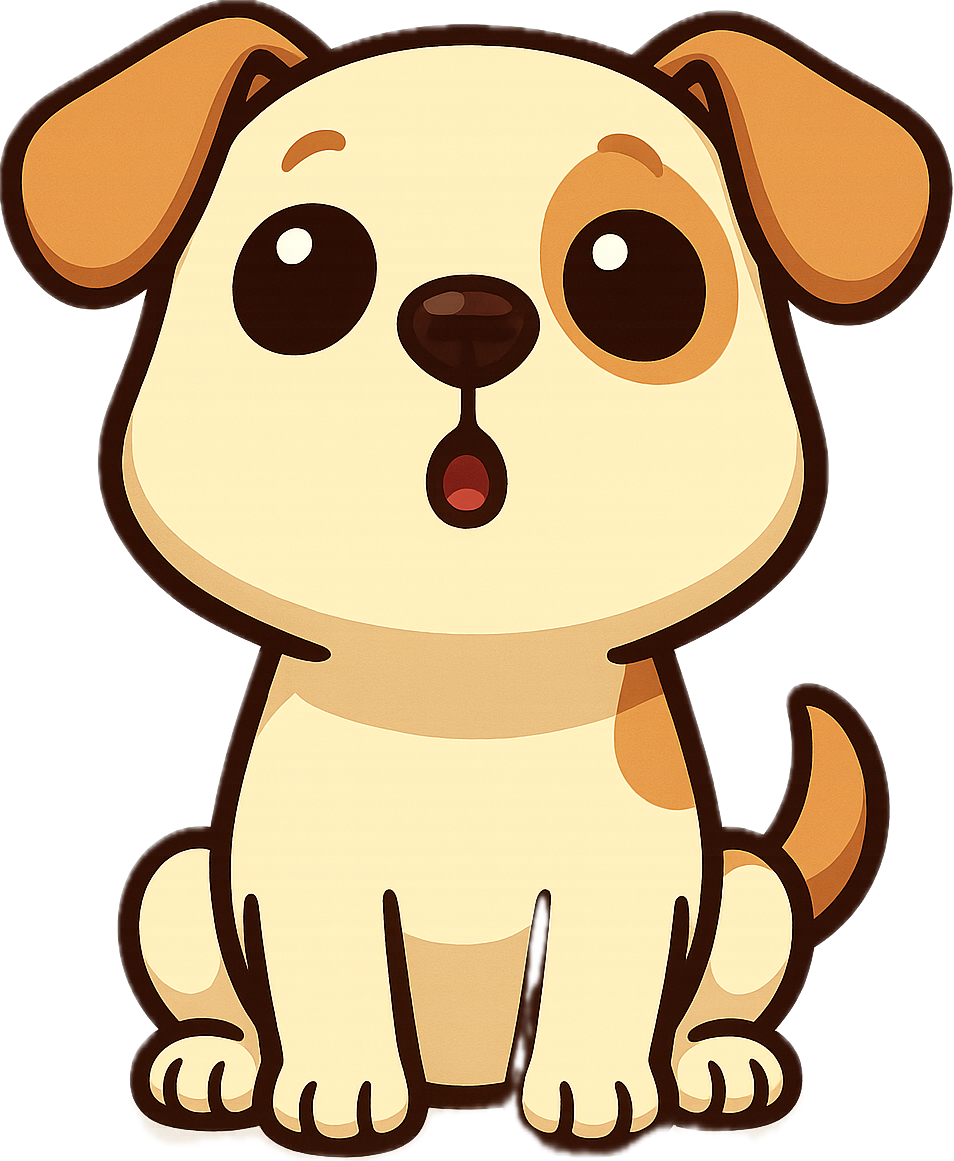
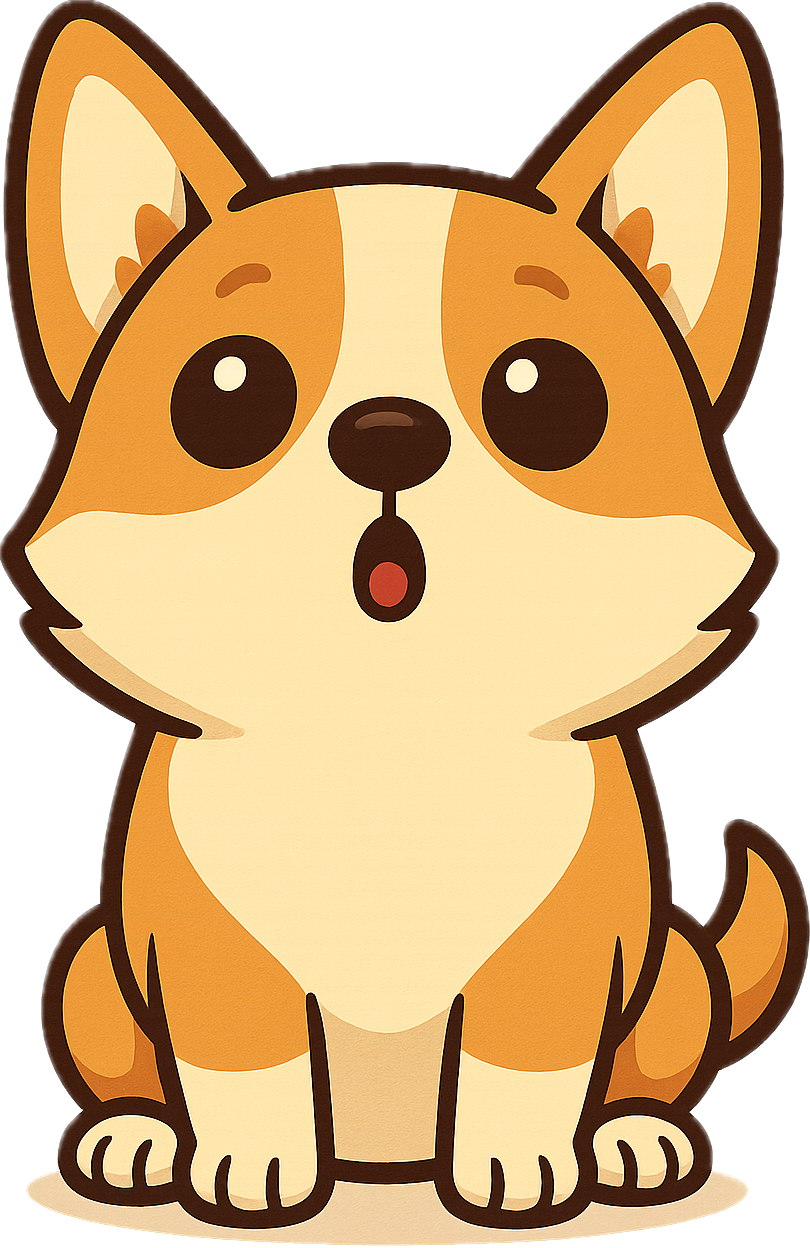
Adding dogs

diff --git a/app/quizGame.tsx b/app/quizGame.tsx
@@ -12,7 +12,7 @@ import EndGameDialog from '@/components/minigames/food-game/EndGameDialog'
 export default function QuizGame() {
     const [quizFinished, setQuizFinished] = useState(false)
     const [correctCount, setCorrectCount] = useState(0)
-
+    const petInfo = useUserPetStore.getState().pet
     const {
         loading,
         error,
@@ -98,7 +98,9 @@ export default function QuizGame() {
                         }
                         imageSource={
                             currentQuestion.image ||
-                            require('@/assets/images/quiz/quiz-cat.png')
+                            petInfo?.type === 'cat'
+                                ? require('@/assets/images/quiz/quiz-cat.png')
+                                : require('@/assets/images/quiz/quiz-dog.png')
                         }
                         onCorrectAnswer={() => handleCorrectAnswer()}
                         onWrongAnswer={() => handleChangeQuestion()}

diff --git a/app/quizSummary.tsx b/app/quizSummary.tsx
@@ -5,9 +5,11 @@ import { router } from "expo-router";
 import { push } from "expo-router/build/global-state/routing";
 import { useEffect, useState } from "react";
 import { Dimensions, Image, ScrollView, StyleSheet, Text, TouchableOpacity, View } from "react-native";
+import { useUserPetStore } from "@/stores/userPetStore";
 
 export default function quizSummary(){
     const [endSummary, setEndSummary] = useState(false);
+    const petInfo = useUserPetStore.getState().pet
      const {
         loading,
         error,
@@ -48,7 +50,9 @@ export default function quizSummary(){
             ></Header>
         </View>
         <View style={styles.container}>
-            <Image source={require('@/assets/images/quiz/quiz-cat.png')}/>    
+            <Image style={{width: 300, height: 260,alignContent: 'center',resizeMode: 'contain'}} source={petInfo?.type === 'cat'
+        ? require('@/assets/images/quiz/quiz-cat.png')
+        : require('@/assets/images/quiz/quiz-dog.png')}/>    
             <Text style={styles.title}>
                 {currentQuestion?.description}
             </Text>

diff --git a/components/Quiz.tsx b/components/Quiz.tsx
@@ -39,7 +39,7 @@ export function Quiz({
 
     return (
         <View style={styles.container}>
-            <Image source={imageSource} />
+            <Image style={{width: 300, height: 260,alignContent: 'center',resizeMode: 'contain'}} source={imageSource} />
             <Text style={styles.question}>{question}</Text>
             <View style={styles.optionsContainer}>
                 {options.map((option) => (